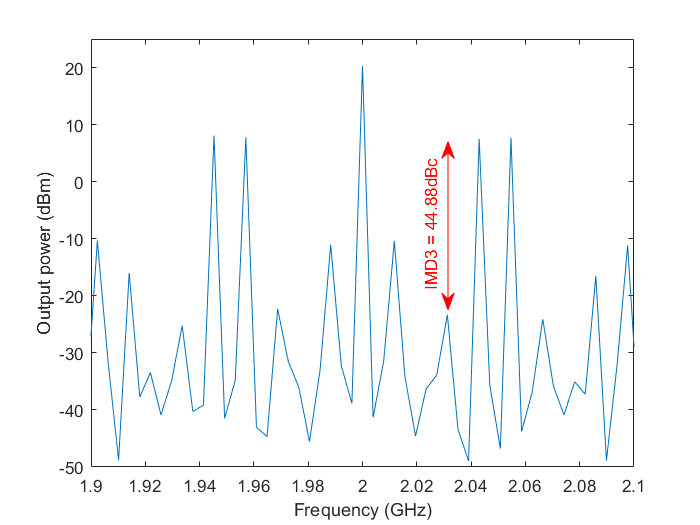
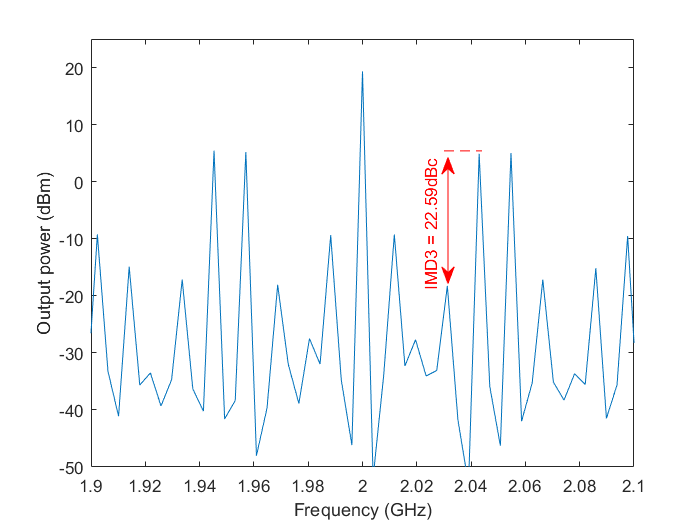
nieuwe goede two tone
helaas de helft van onze imd3 weg :'(

diff --git a/Report 1st Draft/textfiles/simulations.tex b/Report 1st Draft/textfiles/simulations.tex
@@ -9,7 +9,7 @@ Next, a DFT of the output voltage is simulated to see the spectral content of th
 Furthermore, a two tone test is simulated. The period time of the second tone fits 14 times in the simulation time, which means that the data frequency of the second tone is equal to 54.69 MHz see Fig. ~\ref{fig:Vout_two_tone}. A two tone test is useful test the linearity of the DAC, non-linear behaviour generates intermodulation products at the output of the DAC. The power of these intermodulation products should be low, because they interfere with the modulated data tones. Especially the third intermodulation product (IM3), because the IM3 frequencies are very close to the fundamental frequency (at $2f_2-f_1$ and $2f_1-f_2$). It is almost impossible to filter the IM3 noise out of the output signal, therefore it is better to prevent creating IM3 noise. There are more options to express the amount of IM products. For example the spurious-free dynamic range (SFDR) describes power of the fundamental signal to the strongest spurious signal at the output, which is in this case the IM3. Whereas IMD3 describes the difference of the fundamental signal and the IM3.~\ref{fig:DFT_two_tone}
 \begin{figure}[h] 
 \includegraphics[width=0.5\textwidth]{DFT_two_tone.png}
-\caption{The output power spectrum of a two tone test shows a IMD3 of 44.88dBc.}
+\caption{The output power spectrum of a two tone test shows a IMD3 of 22.59 dBc.}
 \label{fig:DFT_two_tone}
 \end{figure}
 
